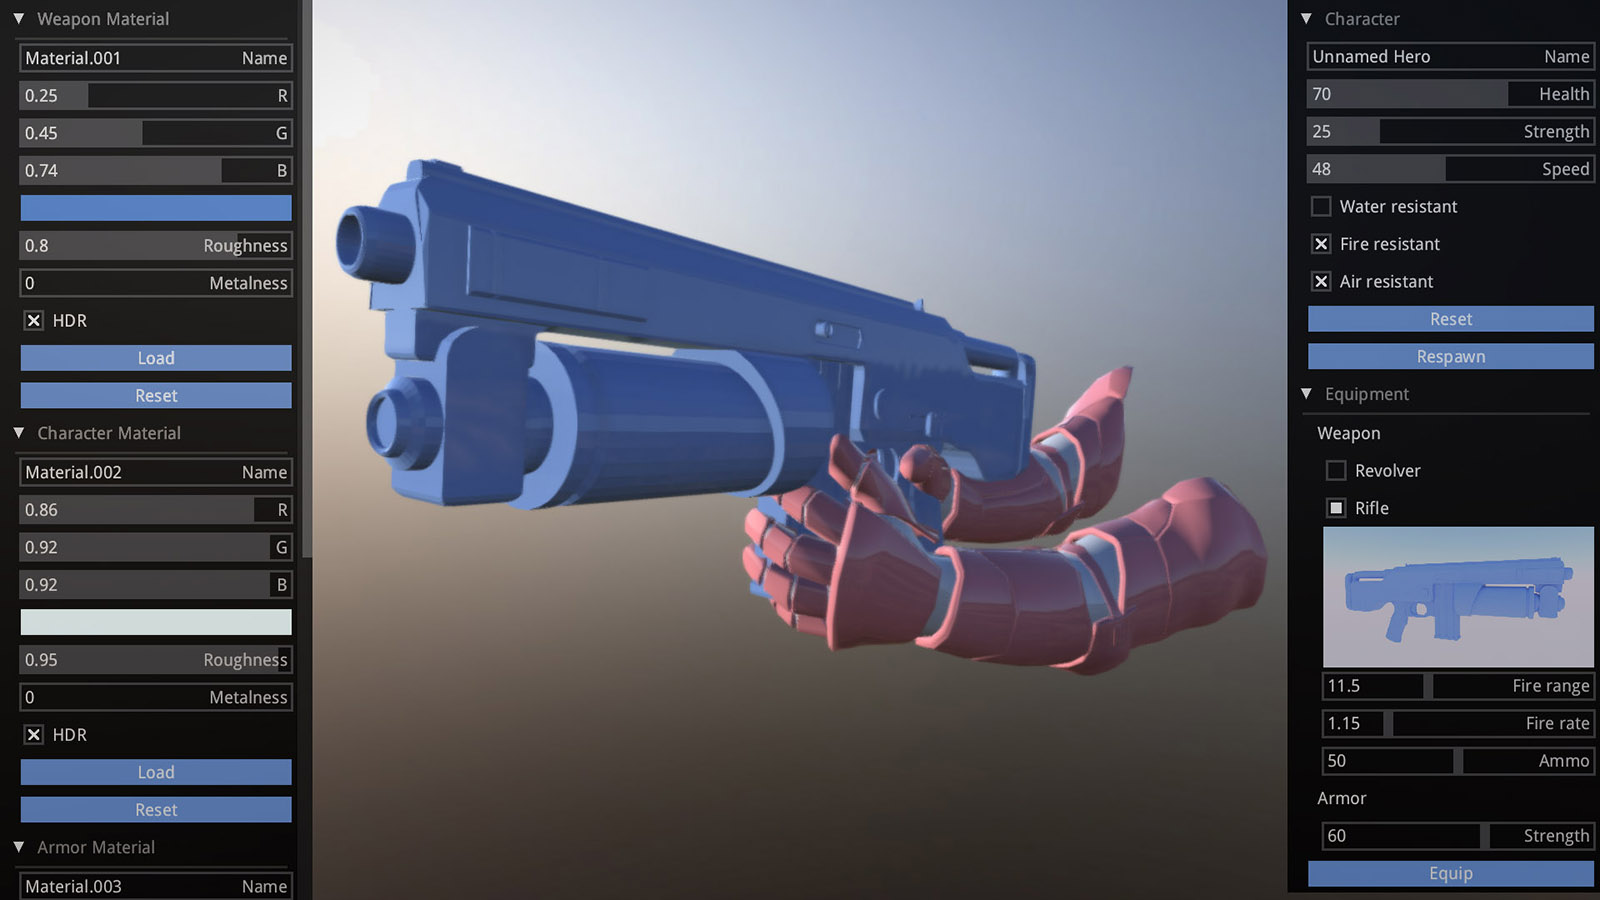
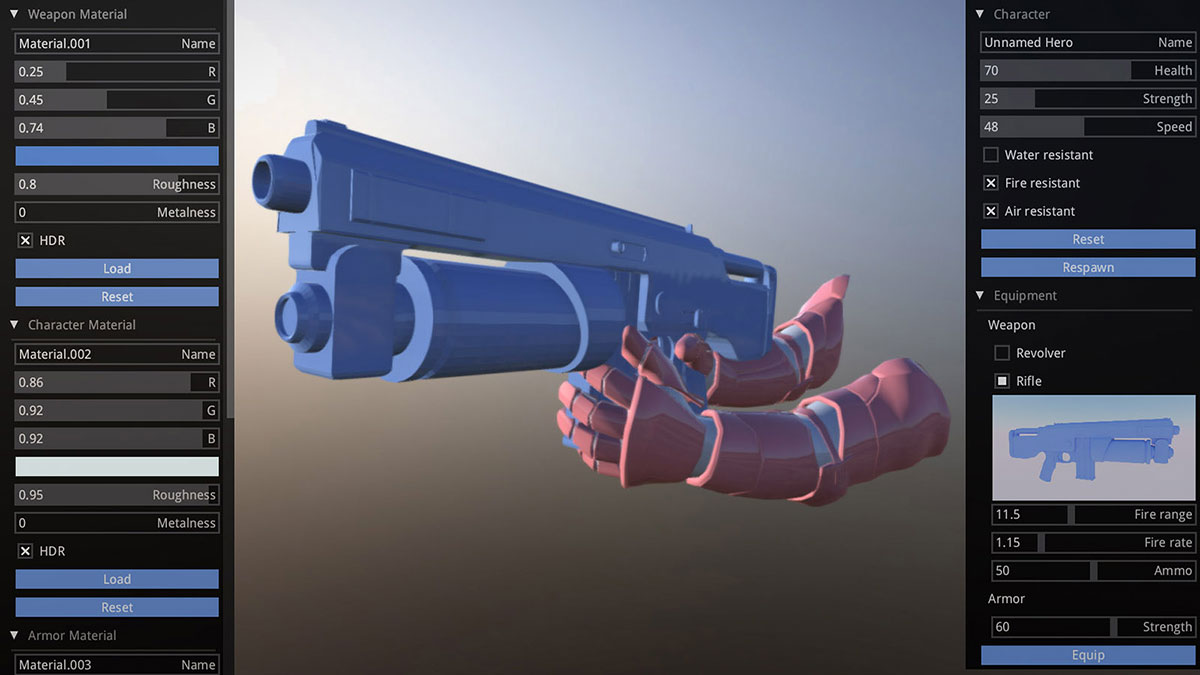
Theming readme.

diff --git a/README.md b/README.md
@@ -68,7 +68,9 @@ Check out examples/ folder. To run specific example, simply drop it's folder int
 Generated API docs are available [here](http://luboslenco.github.io/zui/zui/index.html).
 
 ## Theming
-You can customize theme fairly easily, but currently only by editing constants at the top of Zui.hx file. This will be improved in the future.
+You can customize theme fairly easily, but currently only by editing constants. This will be improved in the future. Check the example theme sources [here](https://github.com/luboslenco/zui/tree/master/Sources/zui/theme).
+  
+![](img/theme.jpg)
 
 ## Custom integration
 Thanks to the powerful render target system of Kha, it is possible to easily integrate the library into any situation. Before creating a new Zui() instance, set Zui.autoNotifyMouseEvents to false. You can then manually process the input and render the resulting texture in any way you may need.
